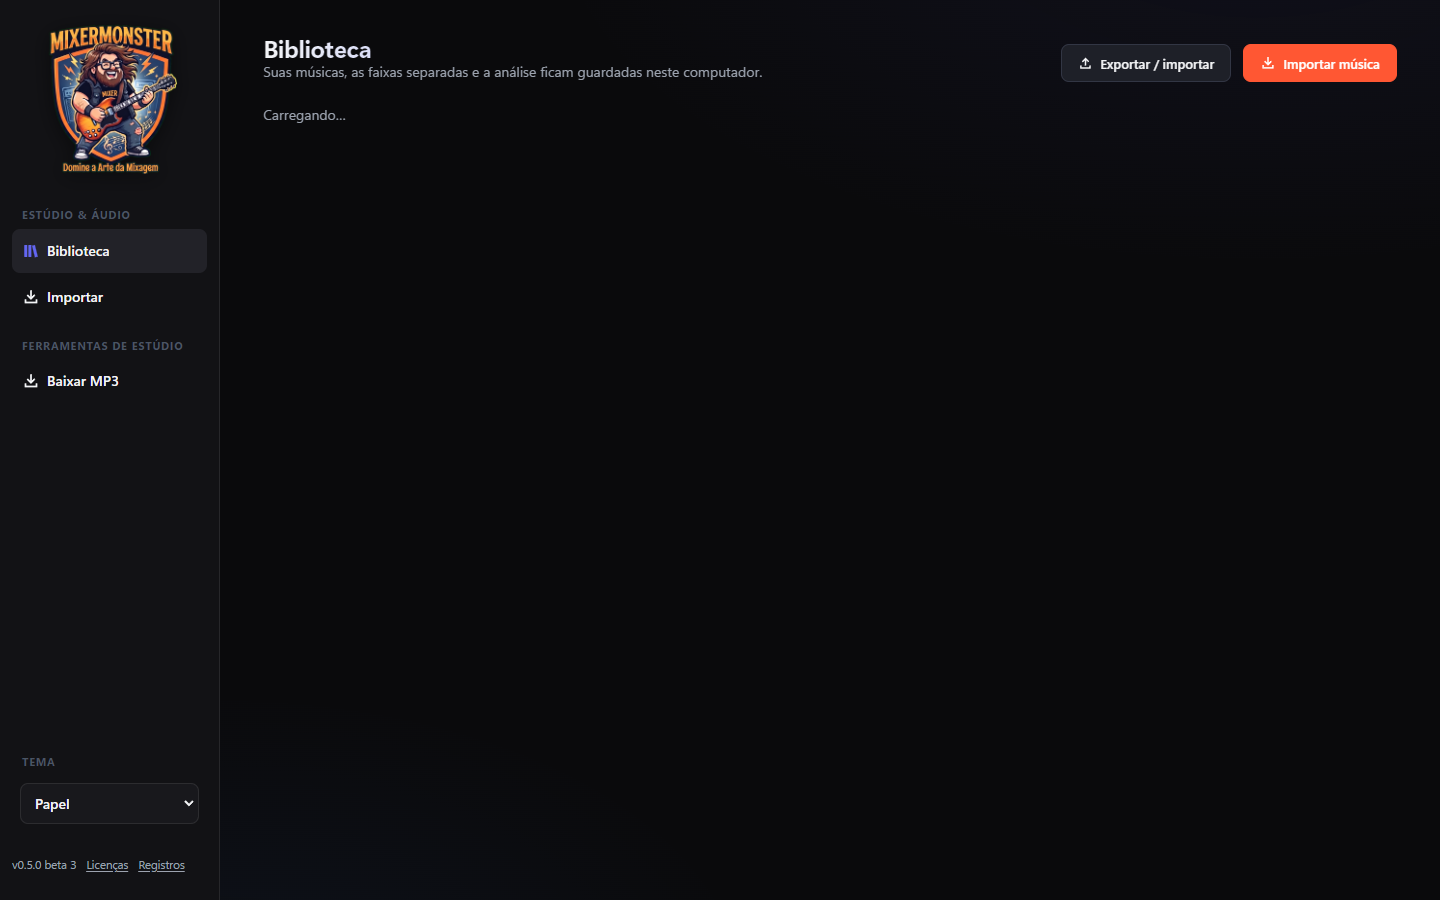
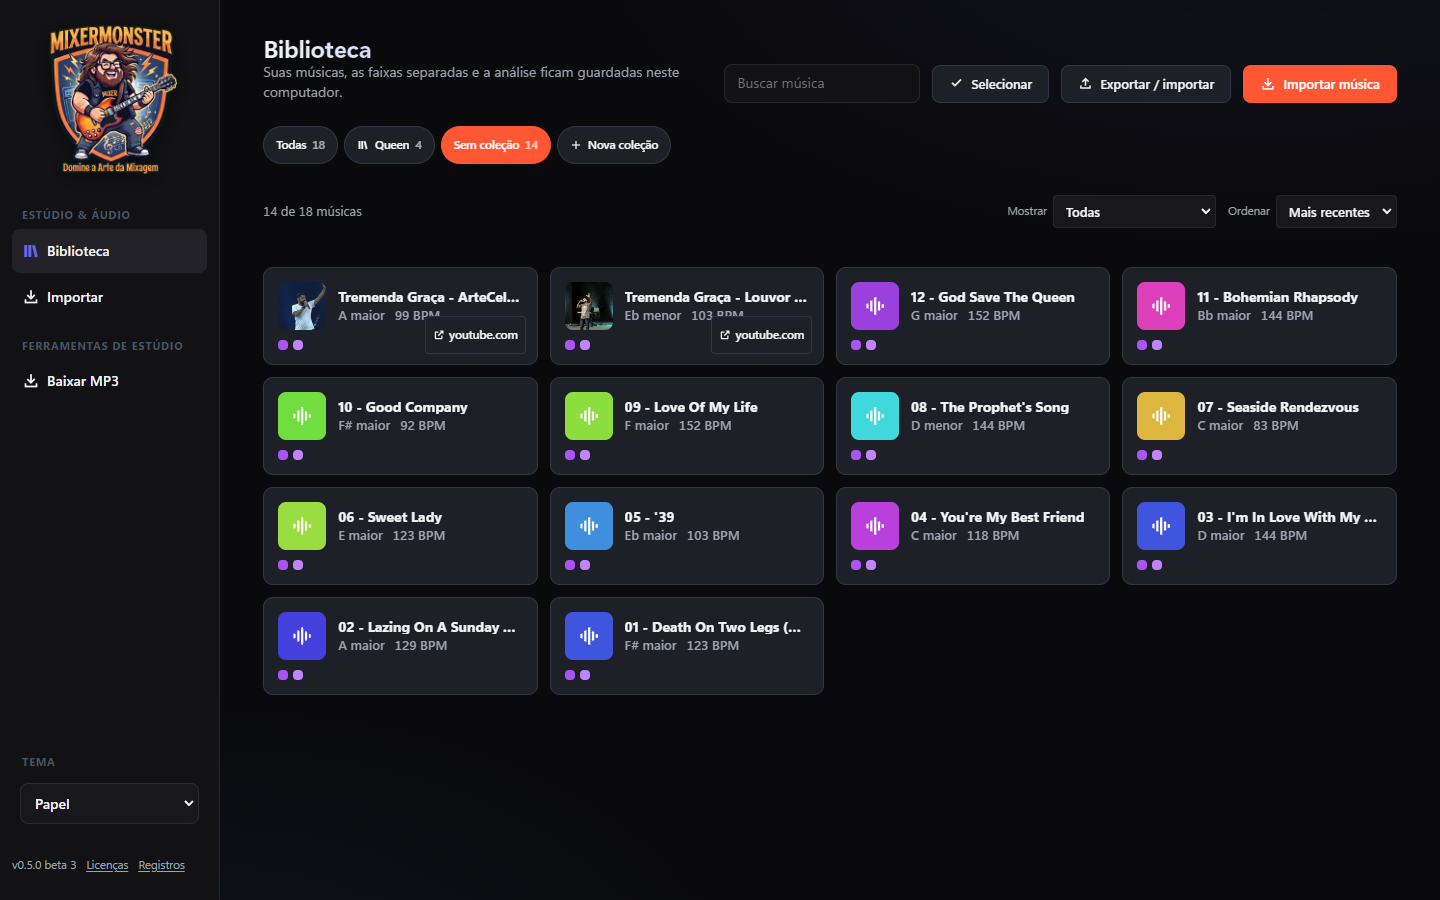
feat(mixermonster): console mute/solo push-buttons, stem chips táteis e braço protegido
- botões Mute/Solo de console analógico com feedback de LED vermelho e âmbar
- stem chips de instrumentos estilizados como botões de hardware táteis com LED na cor da faixa
- proteção e definição explícita do braço 2D do baixo e violão (neck-wood, frets, inlays e notas)
- padronização dos nomes de tema Dark-Pro e Studio Light Pro em ui-core
- capturas atualizadas via Playwright e validação dos 218 testes do MixerMonster

diff --git a/mixermonster/src/renderer/styles/song.css b/mixermonster/src/renderer/styles/song.css
@@ -646,6 +646,108 @@ button.tkey.on {
     font-size: 34px;
   }
 }
+
+/* Console Mute / Solo Hardware Push-Buttons */
+.ms-pair {
+  display: inline-flex;
+  gap: 3px;
+  align-items: center;
+  background: var(--surface-base, #121215);
+  padding: 2px;
+  border-radius: var(--r-sm, 6px);
+  border: 1px solid var(--border-subtle, #27272a);
+}
+.ms {
+  width: 24px;
+  height: 24px;
+  display: inline-flex;
+  align-items: center;
+  justify-content: center;
+  font: 800 11px/1 var(--font-display, var(--font));
+  border-radius: 4px;
+  border: 1px solid var(--border-medium, #27272a);
+  background: var(--surface-elevated, #1c1d22);
+  color: var(--text-secondary, #71717a);
+  cursor: pointer;
+  user-select: none;
+  box-shadow: 0 1px 0 #09090b, 0 2px 4px rgba(0, 0, 0, 0.4);
+  transition: all 0.12s cubic-bezier(0.2, 0.8, 0.2, 1);
+  padding: 0;
+}
+.ms:hover {
+  background: var(--surface-hover, #272730);
+  color: var(--text-primary, #ffffff);
+}
+.ms.mute.on {
+  background: #dc2626 !important;
+  border-color: #ef4444 !important;
+  color: #ffffff !important;
+  transform: translateY(1px);
+  box-shadow: inset 0 2px 4px rgba(0, 0, 0, 0.6), 0 0 10px rgba(239, 68, 68, 0.55) !important;
+}
+.ms.solo.on {
+  background: #d97706 !important;
+  border-color: #f59e0b !important;
+  color: #ffffff !important;
+  transform: translateY(1px);
+  box-shadow: inset 0 2px 4px rgba(0, 0, 0, 0.6), 0 0 10px rgba(245, 158, 11, 0.55) !important;
+}
+
+/* Braço do contrabaixo (2D fretboard com leitura nítida e protegida) */
+.bass-neck {
+  display: block;
+  width: 100%;
+  height: auto;
+}
+.neck-wood {
+  fill: var(--board, #171513);
+}
+.neck-fret {
+  stroke: var(--fret, #888892);
+  stroke-width: 2;
+}
+.neck-nut {
+  stroke: var(--text, #f4f4f7);
+  stroke-width: 5;
+}
+.neck-inlay {
+  fill: var(--inlay, #dcdce6);
+}
+.neck-string {
+  stroke: var(--string, #c4c4cc);
+}
+.neck-open,
+.neck-num {
+  font: 600 var(--fs-xs) var(--font-mono);
+  fill: var(--faint, #71717a);
+}
+.neck-note circle {
+  fill: var(--surface-3, #27272a);
+  stroke: var(--line-strong, #3f3f46);
+  stroke-width: 1.5;
+}
+.neck-note text {
+  font: 700 var(--fs-xs) var(--font);
+  fill: var(--text, #f4f4f7);
+}
+.neck-note.done {
+  opacity: 0.35;
+}
+.neck-note.next circle {
+  fill: var(--surface-base, #121215);
+  stroke: var(--accent-2, #38bdf8);
+  stroke-width: 2.5;
+}
+.neck-note.now circle {
+  fill: var(--accent-primary, #6366f1);
+  stroke: #ffffff;
+  stroke-width: 2;
+  filter: drop-shadow(0 0 8px var(--accent-primary, #6366f1));
+}
+.neck-note.now text {
+  fill: #ffffff;
+}
+
 /* Knob: o SVG sem estas regras pinta os arcos de preto e some com a trilha e o ponteiro. */
 .knob-dial {
   position: relative;

diff --git a/mixermonster/src/renderer/styles/library.css b/mixermonster/src/renderer/styles/library.css
@@ -100,13 +100,17 @@
   display: inline-flex;
   align-items: center;
   gap: 7px;
-  padding: 8px 12px;
+  padding: 7px 14px;
   border-radius: var(--r-pill);
-  border: 1px solid var(--line-strong);
-  color: var(--muted);
+  border: 1px solid var(--border-medium, #27272a);
+  background: var(--surface-base, #16161b);
+  color: var(--text-secondary, #a1a1aa);
+  font: 650 var(--fs-sm) / 1 var(--font);
   cursor: pointer;
   user-select: none;
   position: relative;
+  box-shadow: 0 2px 0 #09090b, 0 3px 6px rgba(0, 0, 0, 0.4);
+  transition: all 0.12s cubic-bezier(0.2, 0.8, 0.2, 1);
 }
 .sp-chip input {
   position: absolute;
@@ -115,13 +119,20 @@
   margin: 0;
   cursor: pointer;
 }
+.sp-chip:hover {
+  background: var(--surface-elevated, #22222b);
+  color: var(--text-primary, #ffffff);
+}
 .sp-chip.on {
-  color: var(--text);
-  border-color: var(--c);
-  background: color-mix(in srgb, var(--c) 16%, transparent);
+  color: #ffffff;
+  border-color: var(--c, var(--accent-primary));
+  background: color-mix(in srgb, var(--c, var(--accent-primary)) 20%, var(--surface-elevated, #1c1d24));
+  transform: translateY(1px);
+  box-shadow: inset 0 2px 4px rgba(0, 0, 0, 0.5), 0 0 10px color-mix(in srgb, var(--c, var(--accent-primary)) 45%, transparent);
 }
 .sp-chip.on svg {
-  color: var(--c);
+  color: var(--c, var(--accent-primary));
+  filter: drop-shadow(0 0 4px color-mix(in srgb, var(--c, var(--accent-primary)) 70%, transparent));
 }
 .sp-chip:has(input:focus-visible) {
   outline: 2px solid var(--focus);

diff --git a/packages/ui-core/src/lib/theme.ts b/packages/ui-core/src/lib/theme.ts
@@ -4,8 +4,8 @@
  */
 export type ThemeName = 'dark' | 'light' | 'wood' | 'paper';
 export const THEMES: ReadonlyArray<{ id: ThemeName; label: string }> = [
-  { id: 'dark', label: 'Escuro' },
-  { id: 'light', label: 'Claro' },
+  { id: 'dark', label: 'Dark-Pro (Escuro)' },
+  { id: 'light', label: 'Studio Light (Claro)' },
   { id: 'wood', label: 'Madeira' },
   { id: 'paper', label: 'Papel' },
 ];
